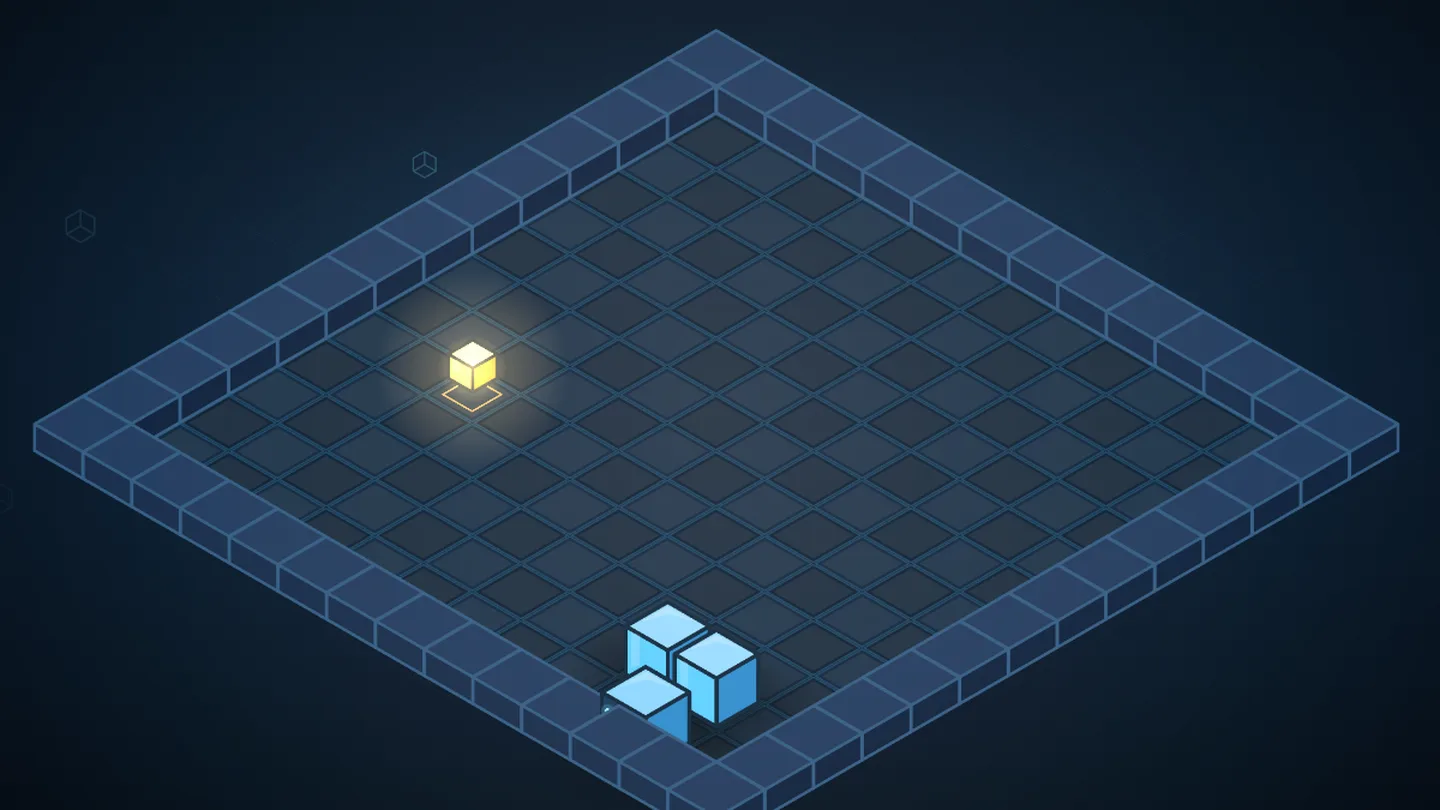
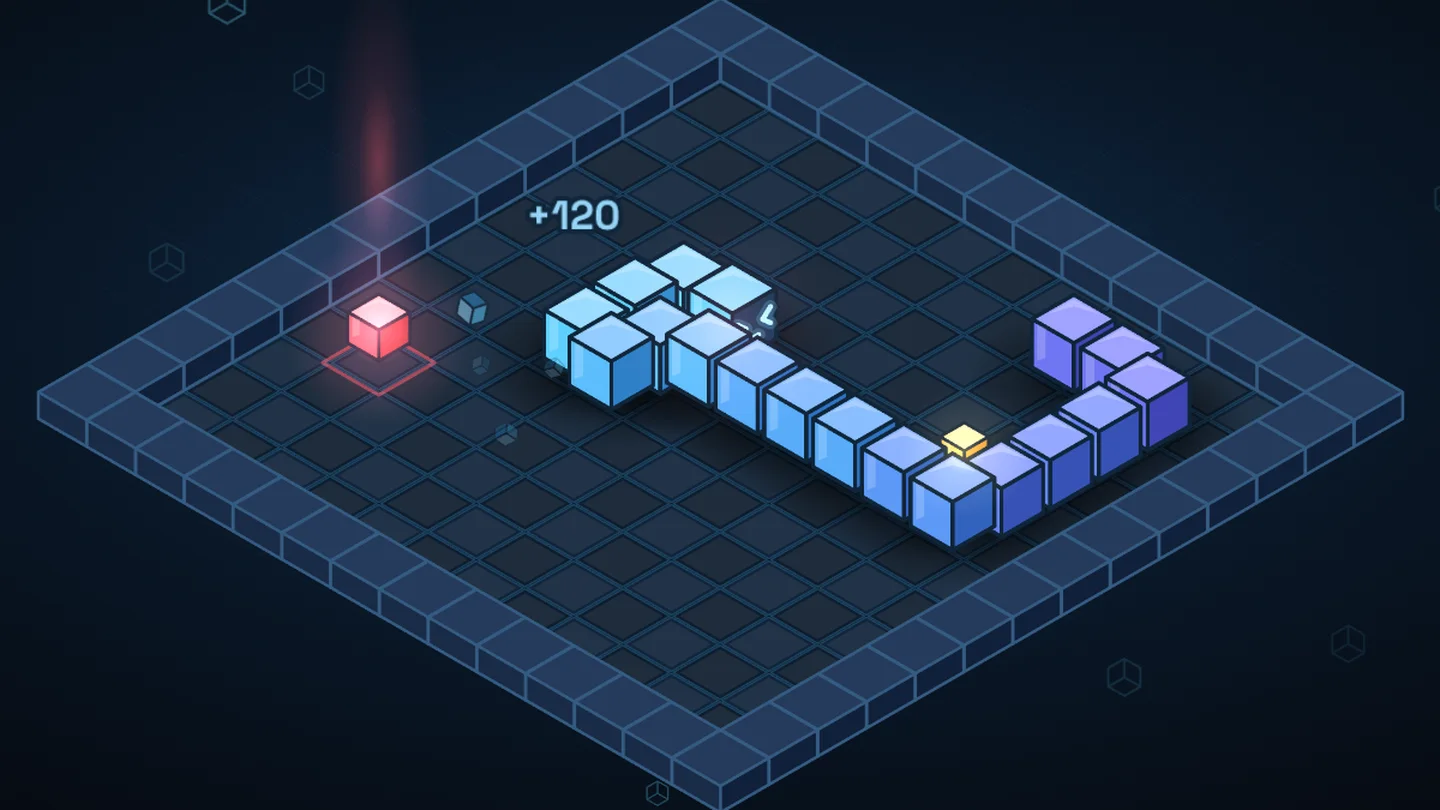
Jogos: nova capa do Rabo de Cubos, com a cobrinha no meio do tabuleiro
Claude-Session: https://claude.ai/code/session_0196q4hbUwvw6R9P37mGCxdE

diff --git a/jogos.html b/jogos.html
@@ -229,7 +229,7 @@
                     <div class="game-cover">
                         <img src="assets/projetos/rabo-de-cubos.webp" width="1440" height="810"
                             loading="lazy" decoding="async"
-                            alt="Tabuleiro isométrico do Rabo de Cubos: uma cauda de cubos azuis cresce perto de um cubo amarelo brilhante.">
+                            alt="Rabo de Cubos em jogo: uma cauda longa de cubos azuis, do azul-claro ao violeta, serpenteia no meio do tabuleiro isométrico, com um cubo vermelho brilhante no canto.">
                     </div>
                     <div class="game-body">
                         <span class="pill pill--live">No ar</span>
